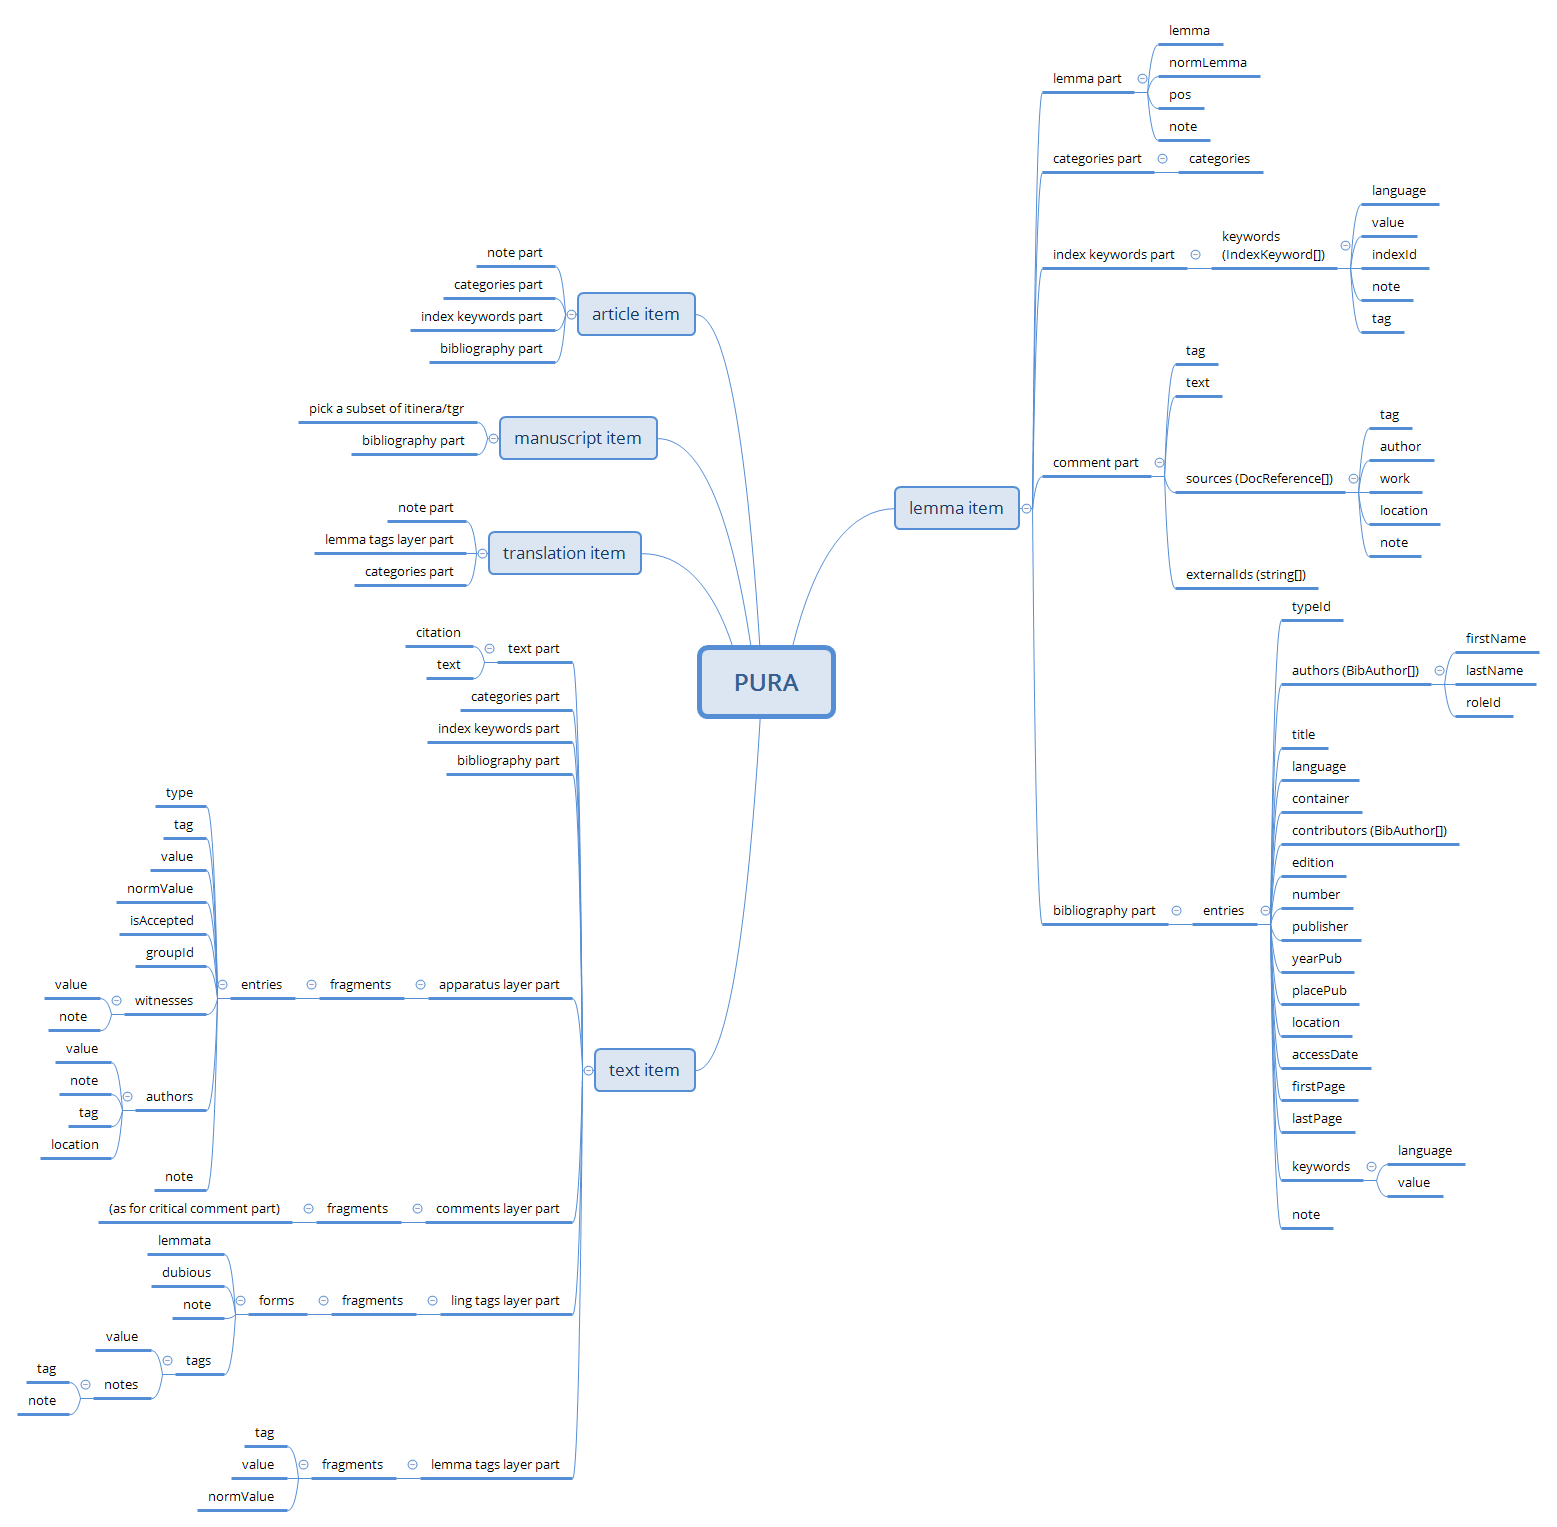
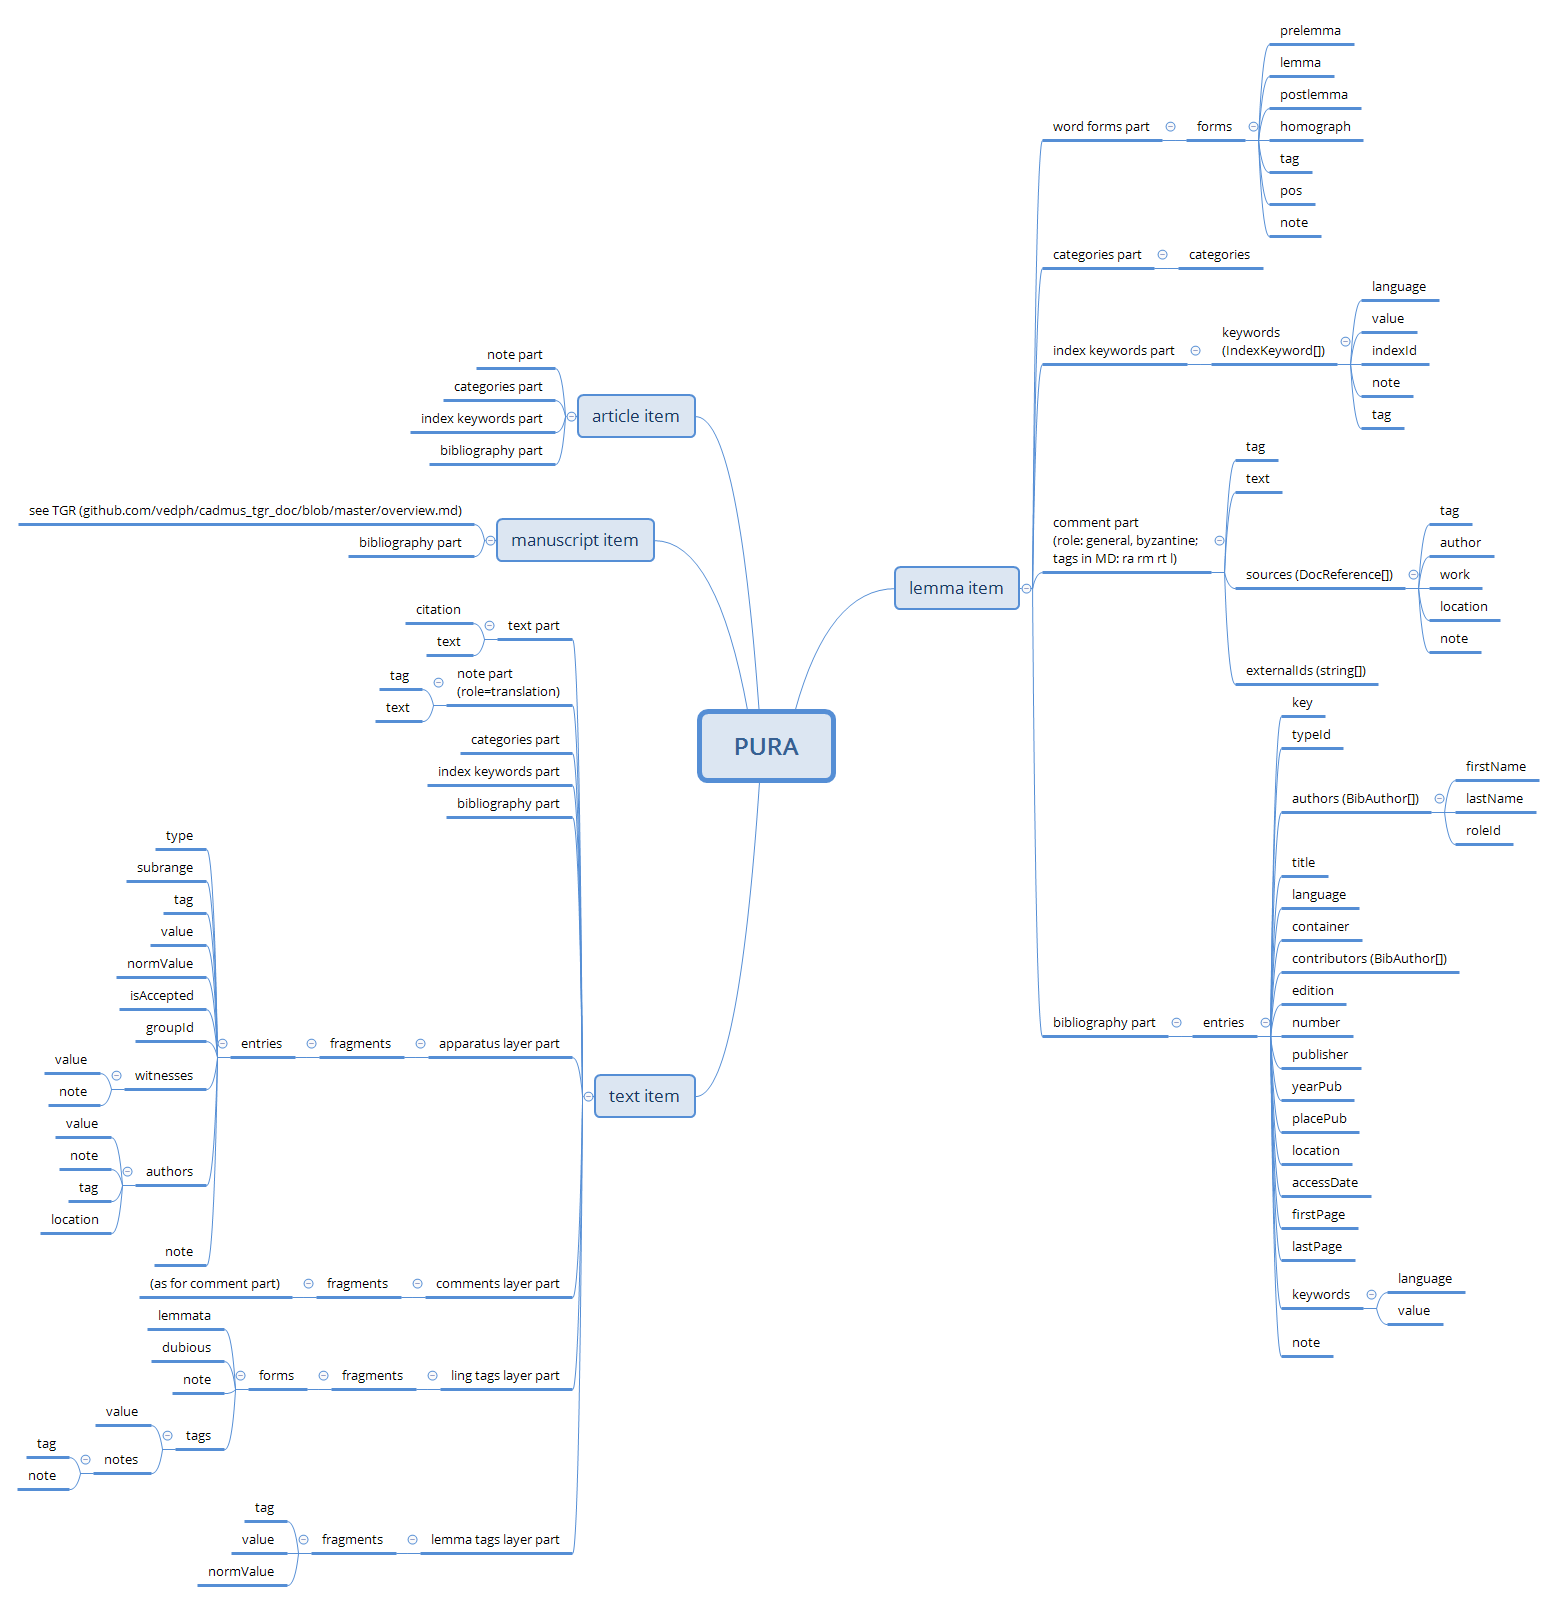
Updated models

diff --git a/models.md b/models.md
@@ -1,5 +1,7 @@
 # PURA Models
 
+You can also have a glance at the [graphical overview](overview.md).
+
 Legenda: in the following documentation, each data model is represented by a named object with any number of properties. Each property can either be a scalar ("simple") property, like a number, a text (string), a boolean (=yes/no) value, etc. Properties can freely nest.
 
 The following conventions apply:
@@ -25,8 +27,7 @@ This means that our model for the lemma is represented by an object with name `L
 In this project there are 5 types of items:
 
 - lemmata: a sort of specialized dictionary.
-- text with layers: Greek texts.
-- translations with layers: English translations.
+- text with layers: Greek text passages cited in the discussion.
 - manuscripts: codicological descriptions.
 - articles: monographic treatises about general themes.
 
@@ -34,11 +35,14 @@ In this project there are 5 types of items:
 
 ## Lemma Item
 
-- `LemmaPart`\*:
-  - `lemma`\* (`string`): lemma.
-  - `normLemma`\* (`string`): normalized form of the lemma.
-  - `pos`\* (`string`, thesaurus): part of speech.
-  - `note` (`string`): optional short note.
+- `WordFormsPart`\*:
+  - `forms` (`WordForm[]`):
+    - `prelemma` (`string`)
+    - `lemma`\* (`string`)
+    - `postlemma` (`string`)
+    - `homograph` (`integer`)
+    - `pos`\* (`string`, thesaurus): part of speech.
+    - `note` (`string`): optional short note.
 
 - `CategoriesPart`: [categories](https://github.com/vedph/cadmus_doc/blob/master/web/help/general-parts.md#categories) assigned to the lemma. These will draw data from a hierarchical taxonomy.
 
@@ -47,18 +51,29 @@ In this project there are 5 types of items:
 - `CommentPart`:
   - `tag` (`string`): any tag useful to categorize the comment (e.g. scholarly, explanatory, etc.).
   - `text`\* (`string`, MD): the comment's text.
-  - `sources` (`DocReference[]`): [sources](https://github.com/vedph/cadmus_itinera_doc/blob/master/help/doc-references.md) citations.
+  - `sources` (`DocReference[]`): [sources](https://github.com/vedph/cadmus_itinera_doc/blob/master/help/doc-references.md):
+    - `tag`
+    - `author`
+    - `work`
+    - `location`
+    - `note`
   - `externalIds` (`string[]`): [external IDs](https://github.com/vedph/cadmus_itinera_doc/blob/master/help/external-ids.md) of any sort (LOD IDs, link to a webpage or other resource, etc.).
 
 - `BibliographyPart`: general [bibliography](https://github.com/vedph/cadmus_doc/blob/master/web/help/general-parts.md#bibliography).
 
 ## Text Item
 
+These are simple passages extracted from various works, and referenced in the discussions. Each item has its group ID equal to the work (e.g. `antiatt`), and its title equal to a stripped down form of the lemma it belongs to (e.g. `ΗΣΥΧΙΟΣ` from `ἡσύχιος`), followed by a dash and the passage local ID (e.g. `-A1`).
+
 - `TokenTextPart`\*: [text passage](https://github.com/vedph/cadmus_doc/blob/master/web/help/general-parts.md#token-text).
+
+- [NotePart](https://github.com/vedph/cadmus_doc/blob/master/web/help/general-parts.md#note) for translation, with `role`=`transl` (`NotePart`).
 
 - `CategoriesPart`: [categories](https://github.com/vedph/cadmus_doc/blob/master/web/help/general-parts.md#categories) assigned to the text passage. These will draw data from a hierarchical taxonomy.
 
 - `IndexKeywordsPart`: [keywords](https://github.com/vedph/cadmus_doc/blob/master/web/help/general-parts.md#index-keywords) eventually assigned to the lemma.
+
+- `BibliographyPart`: general [bibliography](https://github.com/vedph/cadmus_doc/blob/master/web/help/general-parts.md#bibliography).
 
 - `ApparatusLayerFragment`: [apparatus layer](https://github.com/vedph/cadmus_doc/blob/master/web/help/philology-parts.md#apparatus).
 
@@ -71,27 +86,19 @@ In this project there are 5 types of items:
   - `value`\* (`string`)
   - `normValue`\* (`string`)
 
-- `BibliographyPart`: general [bibliography](https://github.com/vedph/cadmus_doc/blob/master/web/help/general-parts.md#bibliography).
-
-## Translation Item
-
-- `TokenTextPart`: translation of a [text passage](https://github.com/vedph/cadmus_doc/blob/master/web/help/general-parts.md#token-text). The source passage is identified by virtue of its citation.
-
-- `CategoriesPart`: [categories](https://github.com/vedph/cadmus_doc/blob/master/web/help/general-parts.md#categories) assigned to the text passage. These will draw data from a hierarchical taxonomy.
-
-- `IndexKeywordsPart`: [keywords](https://github.com/vedph/cadmus_doc/blob/master/web/help/general-parts.md#index-keywords) eventually assigned to the translation.
-
-- `LemmaTagsLayerFragment`: as above, for the corresponding translated term(s).
-
 ## Manuscript Item
 
-TODO: pick from [TGR](https://github.com/vedph/cadmus_tgr_doc/blob/master/models.md) / [Itinera](https://github.com/vedph/cadmus_itinera_doc/blob/master/models.md).
-
 - `BibliographyPart`: general [bibliography](https://github.com/vedph/cadmus_doc/blob/master/web/help/general-parts.md#bibliography).
+
+See [TGR](https://github.com/vedph/cadmus_tgr_doc/blob/master/models.md).
 
 ## Article Item
 
-- `NotePart`: the article. A generic [note](https://github.com/vedph/cadmus_doc/blob/master/web/help/general-parts.md#note) can be used here, as its model just includes a tag and a MD text.
+- `NotePart`: the article. A generic [note](https://github.com/vedph/cadmus_doc/blob/master/web/help/general-parts.md#note) can be used here, as its model just includes a tag and a MD text. The MD text also includes a minimalist tagging for:
+  - references to ancient authors (`{ra:...}`)
+  - references to modern authors (`{rm:...}`)
+  - references to text passages (`{rt:...}`)
+  - literals (`{l:...}`)
 
 - `CategoriesPart`: [categories](https://github.com/vedph/cadmus_doc/blob/master/web/help/general-parts.md#categories) assigned to the article. These will draw data from a hierarchical taxonomy.
 

diff --git a/overview.md b/overview.md
@@ -1,0 +1,5 @@
+# PURA Models Overview
+
+PURA [models](models.md) overview.
+
+![overview](images/models.png)

diff --git a/README.md b/README.md
@@ -2,4 +2,5 @@
 
 ## Conceptual Documentation
 
+- [overview](overview.md)
 - [models](models.md)
